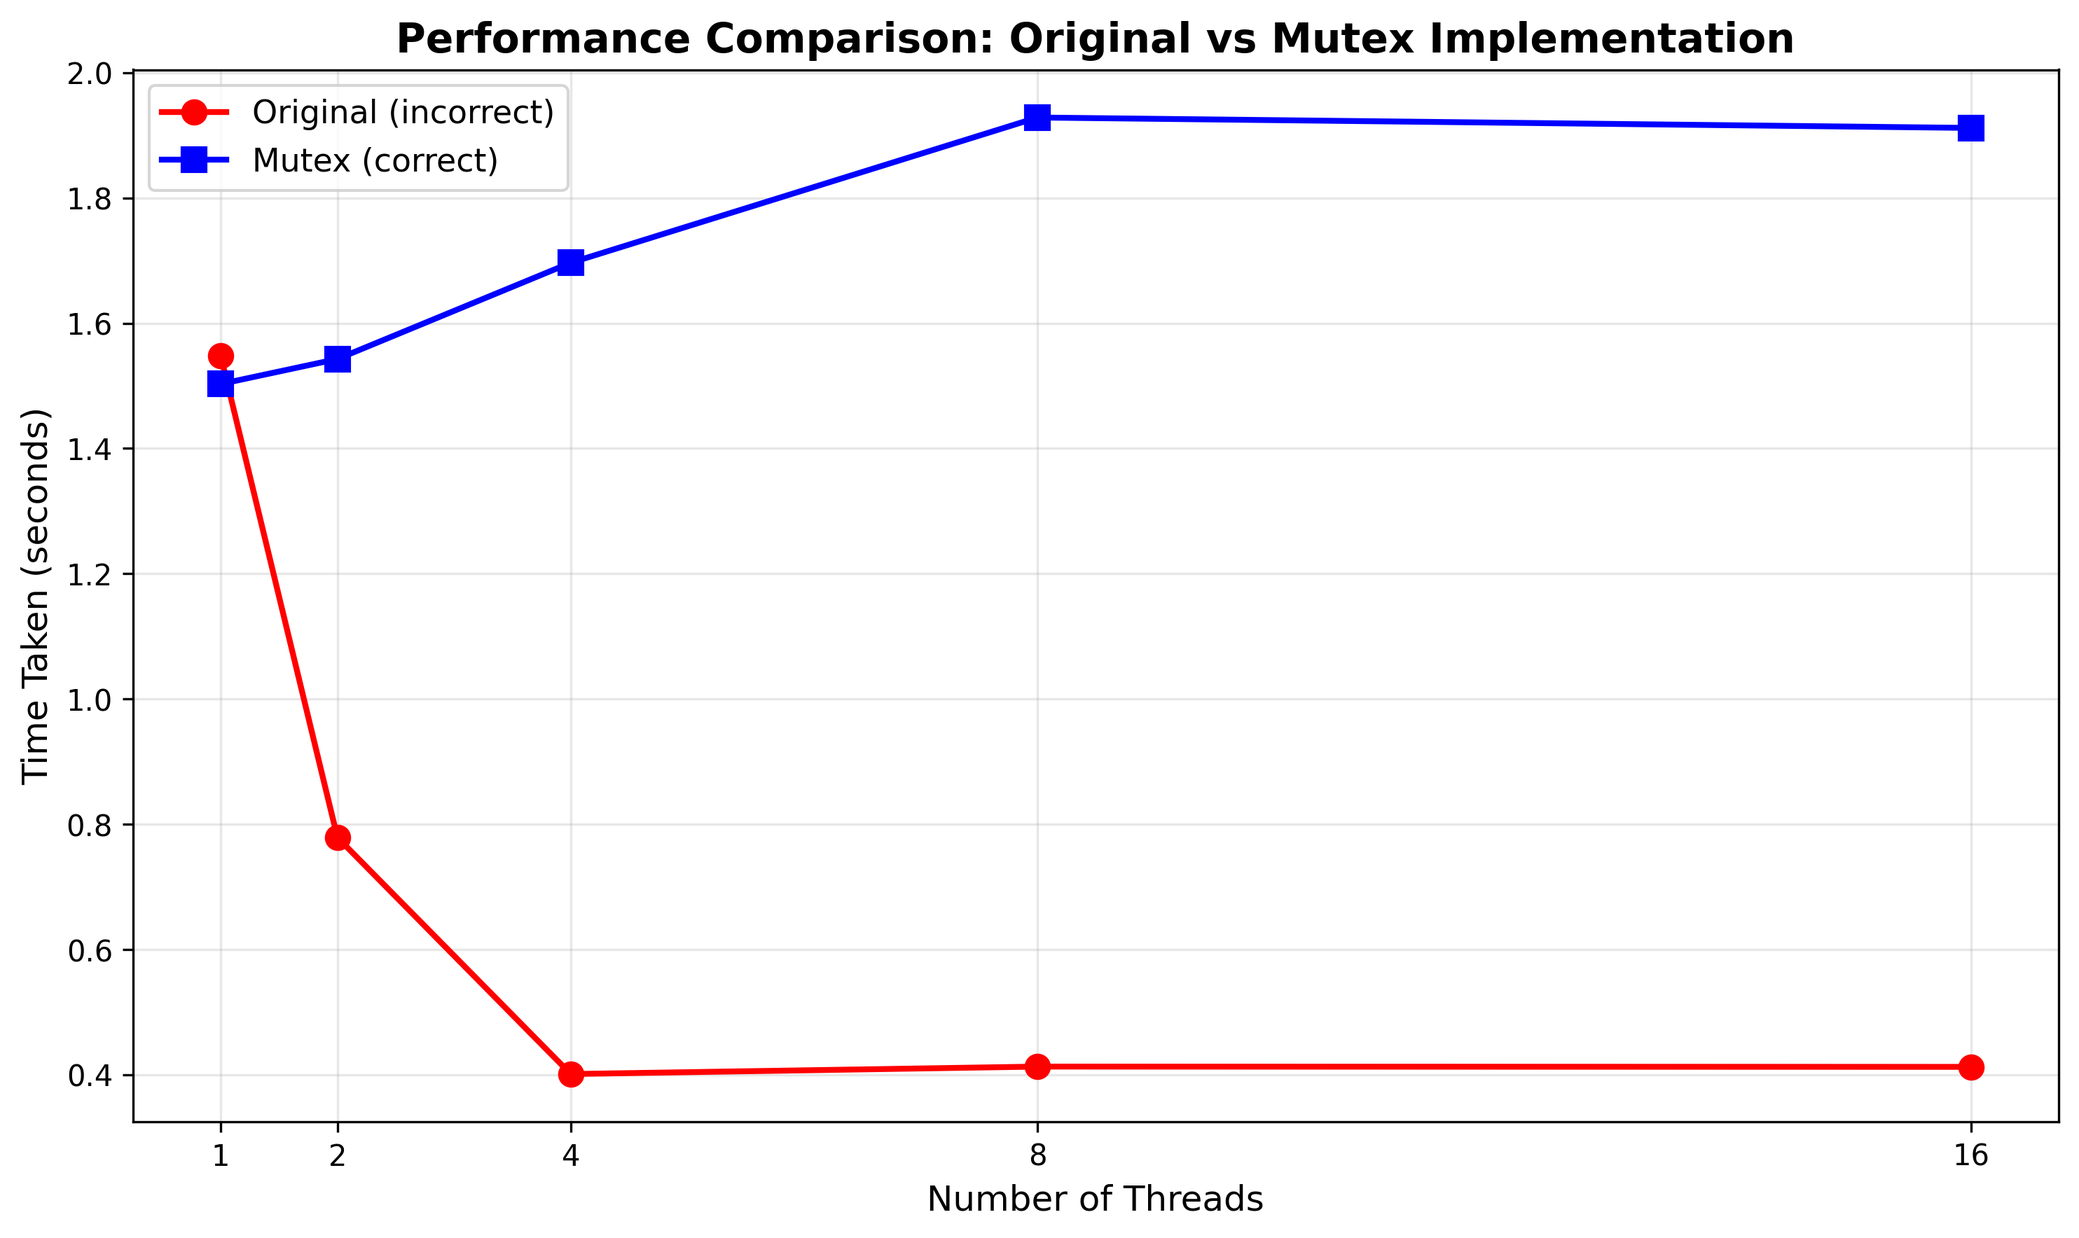
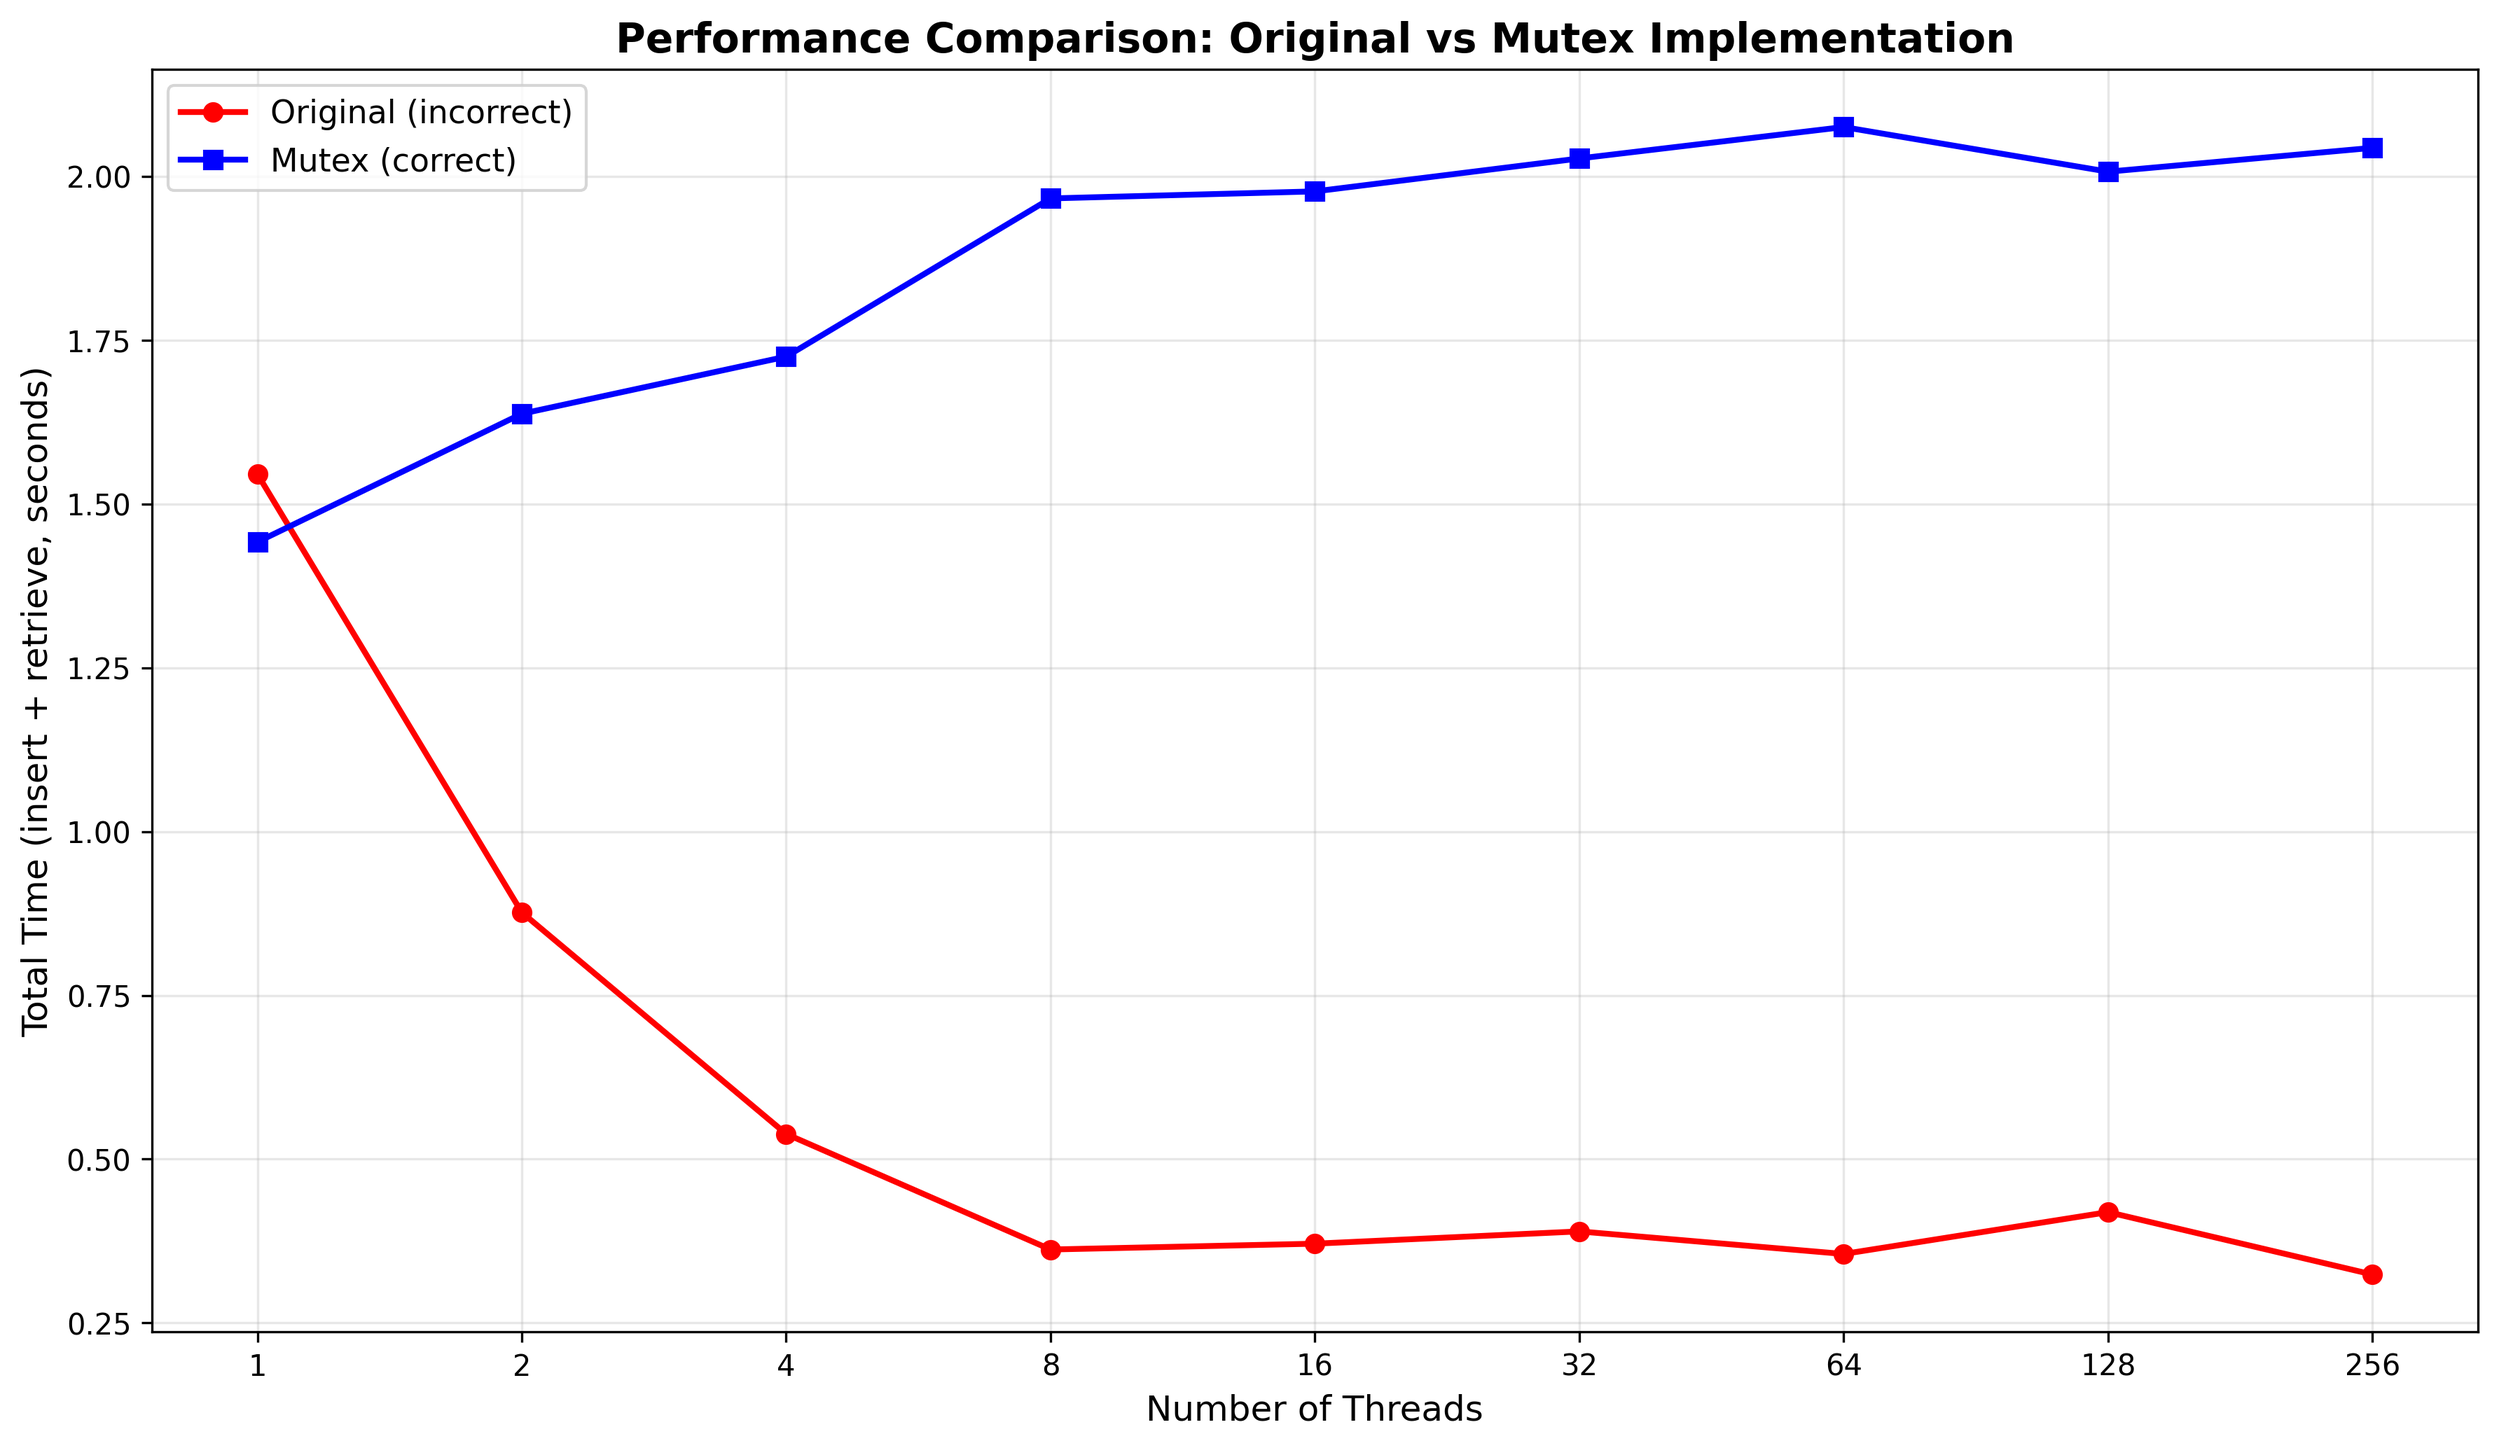
updates

diff --git a/homework04/README.md b/homework04/README.md
@@ -54,7 +54,7 @@ Uses a single global mutex (`pthread_mutex_t table_lock`) to protect all critica
 ![Mutex Performance Comparison](./images/mutex_performance_comparison.png)
 
 **Graph Description:**
-- **X-axis:** Number of threads (1, 2, 4, 8, 16)
+- **X-axis:** Number of threads (1, 2, 4, 8, 16, 32, 64, 128, 256) - multiples of 2 until 256
 - **Y-axis:** Total execution time (insert + retrieve) in seconds
 - **Red line:** Original (incorrect) - faster but loses keys
 - **Blue line:** Mutex (correct) - slower but guarantees correctness
@@ -134,7 +134,7 @@ Replaces all mutex operations with spinlock operations using a custom atomic-bas
 ![Spinlock Performance Comparison](./images/spinlock_performance_comparison.png)
 
 **Graph Description:**
-- **X-axis:** Number of threads (1, 2, 4, 8, 16)
+- **X-axis:** Number of threads (1, 2, 4, 8, 16, 32, 64, 128, 256) - multiples of 2 until 256
 - **Y-axis:** Total execution time (insert + retrieve) in seconds
 - **Red line:** Original (incorrect)
 - **Blue line:** Mutex (correct)
